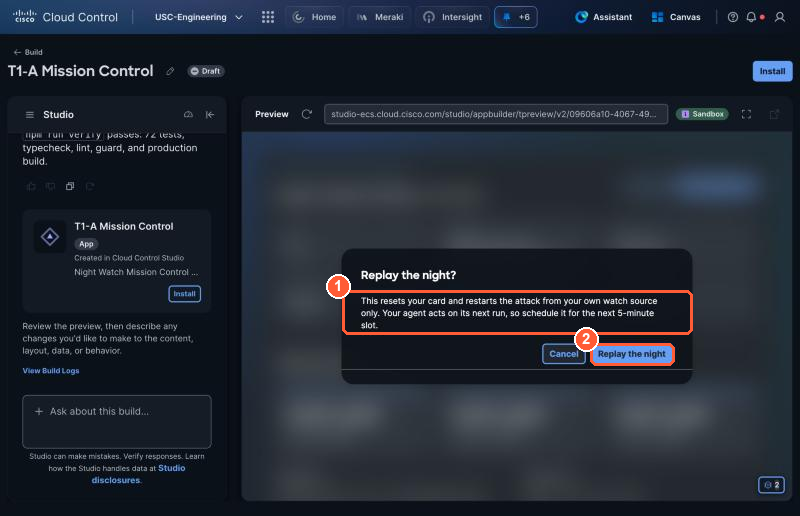
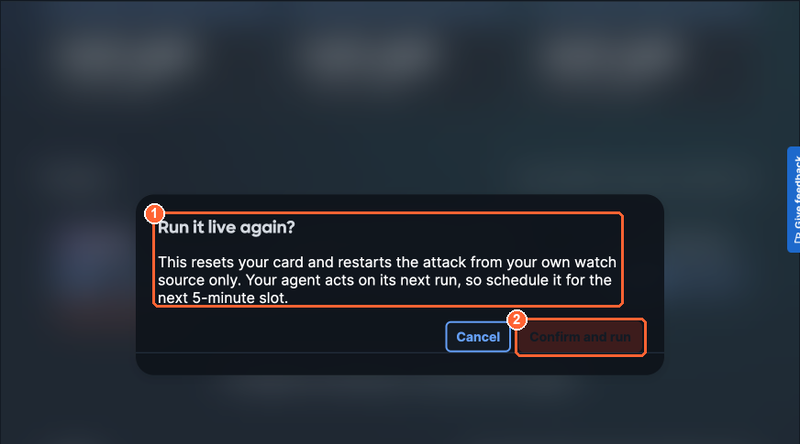
3.1: new screenshots of the Mission Control app (header, Run it live again, Live mode, resolved night, My group)

diff --git a/docs/part3/3-1-mission-control.md b/docs/part3/3-1-mission-control.md
@@ -178,7 +178,7 @@ your agent handles it again for real.
     | 3 | **Night position** slider | Drag back to rewind, drag forward to jump ahead. Everything on screen shows the night *as of* that moment; entries after it are greyed |
     | 4 | **1x 2x 3x 4x 8x** | Playback speed. A 5-minute night takes under a minute at 8x |
     | 5 | Clock and **T+m:ss** | The time at the playhead, and how long after the attack started |
-    | 6 | **Run it live again** | Restarts your attack for real (below). If it is greyed out, select **Pause** first |
+    | 6 | **Run it live again** | Restarts your attack for real (below). It is dark red on purpose: it changes your lab |
 
 - [ ] Drag the slider to the moment your agent raised the alert: the pill turns red and the ticket your
       agent opened appears right next to it.
@@ -197,14 +197,17 @@ Playback makes no calls to the lab. Nothing changes until you select **Run it li
     ![Live mode after the replay](../img/28i-replay-live.png)
 
 3. In Studio, schedule your agent for the next 5-minute slot (Manage → your agent → **Edit schedule**),
-   as in 2.4. Then hands off: when the run starts, the timeline fills in step by step (alert, ticket,
+   as in 2.4, or run it now from its **Test** tab (**Typical task → Run scenario**). Then hands off: when the run starts, the timeline fills in step by step (alert, ticket,
    contained, resolved) and the card goes **red**, then **Verifying**, then **green**.
 
     ![Your agent handled it](../img/28j-replay-resolved.png)
 
-- [ ] (1) **Response times** fill in. In this run: 8:15 to detect (mostly waiting for the scheduled slot),
-      0:14 to contain, 8:44 to resolve.
+- [ ] (1) **Response times** fill in. In this run, started from **Test**: 3:45 to detect, 0:07 to contain,
+      4:08 to resolve. From a schedule, time to detect includes the wait for the slot.
 - [ ] (2) The **Timeline** shows each step, with your agent's alert in its own words and its ticket notes.
+
+![My group after the run](../img/28m-app-group.png)
+
 - [ ] (3) Your card in **My group** turns **Resolved**, with your agent's summary. In live mode the app
       also shows *"Your agent handled it in m:ss"*.
 - [ ] When live mode ends, the new night loads into **Playback**: play it back at 4x to see the whole run.
